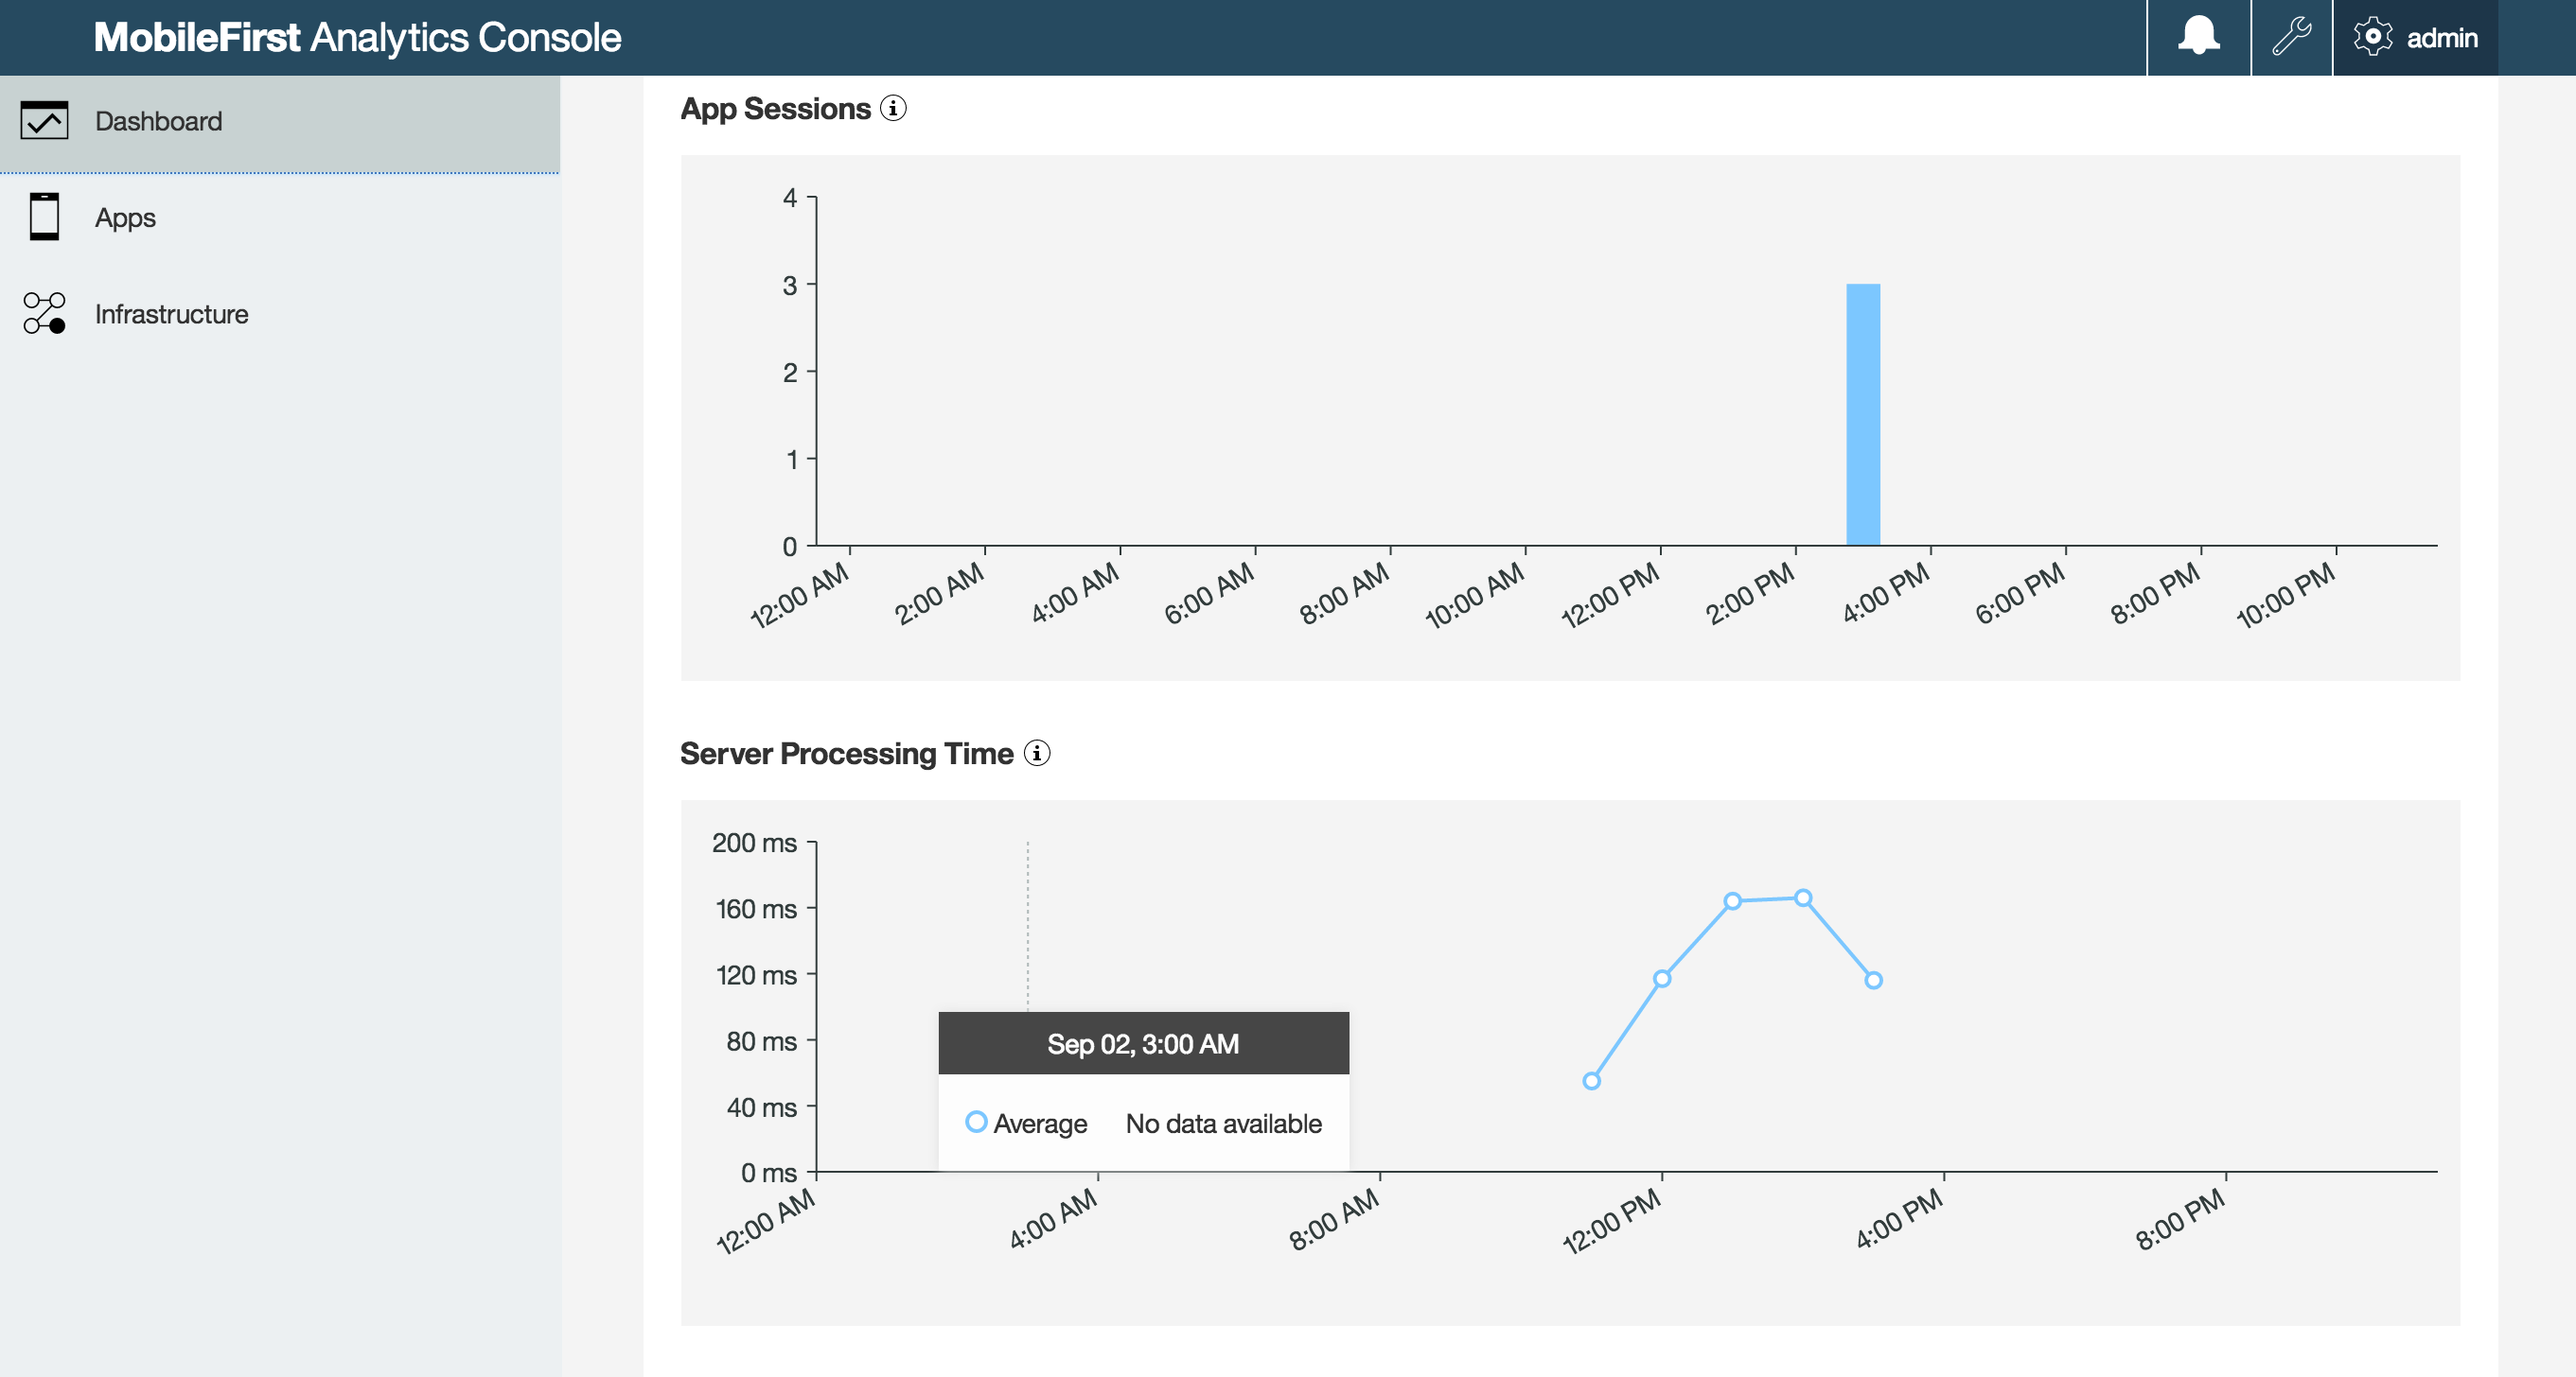
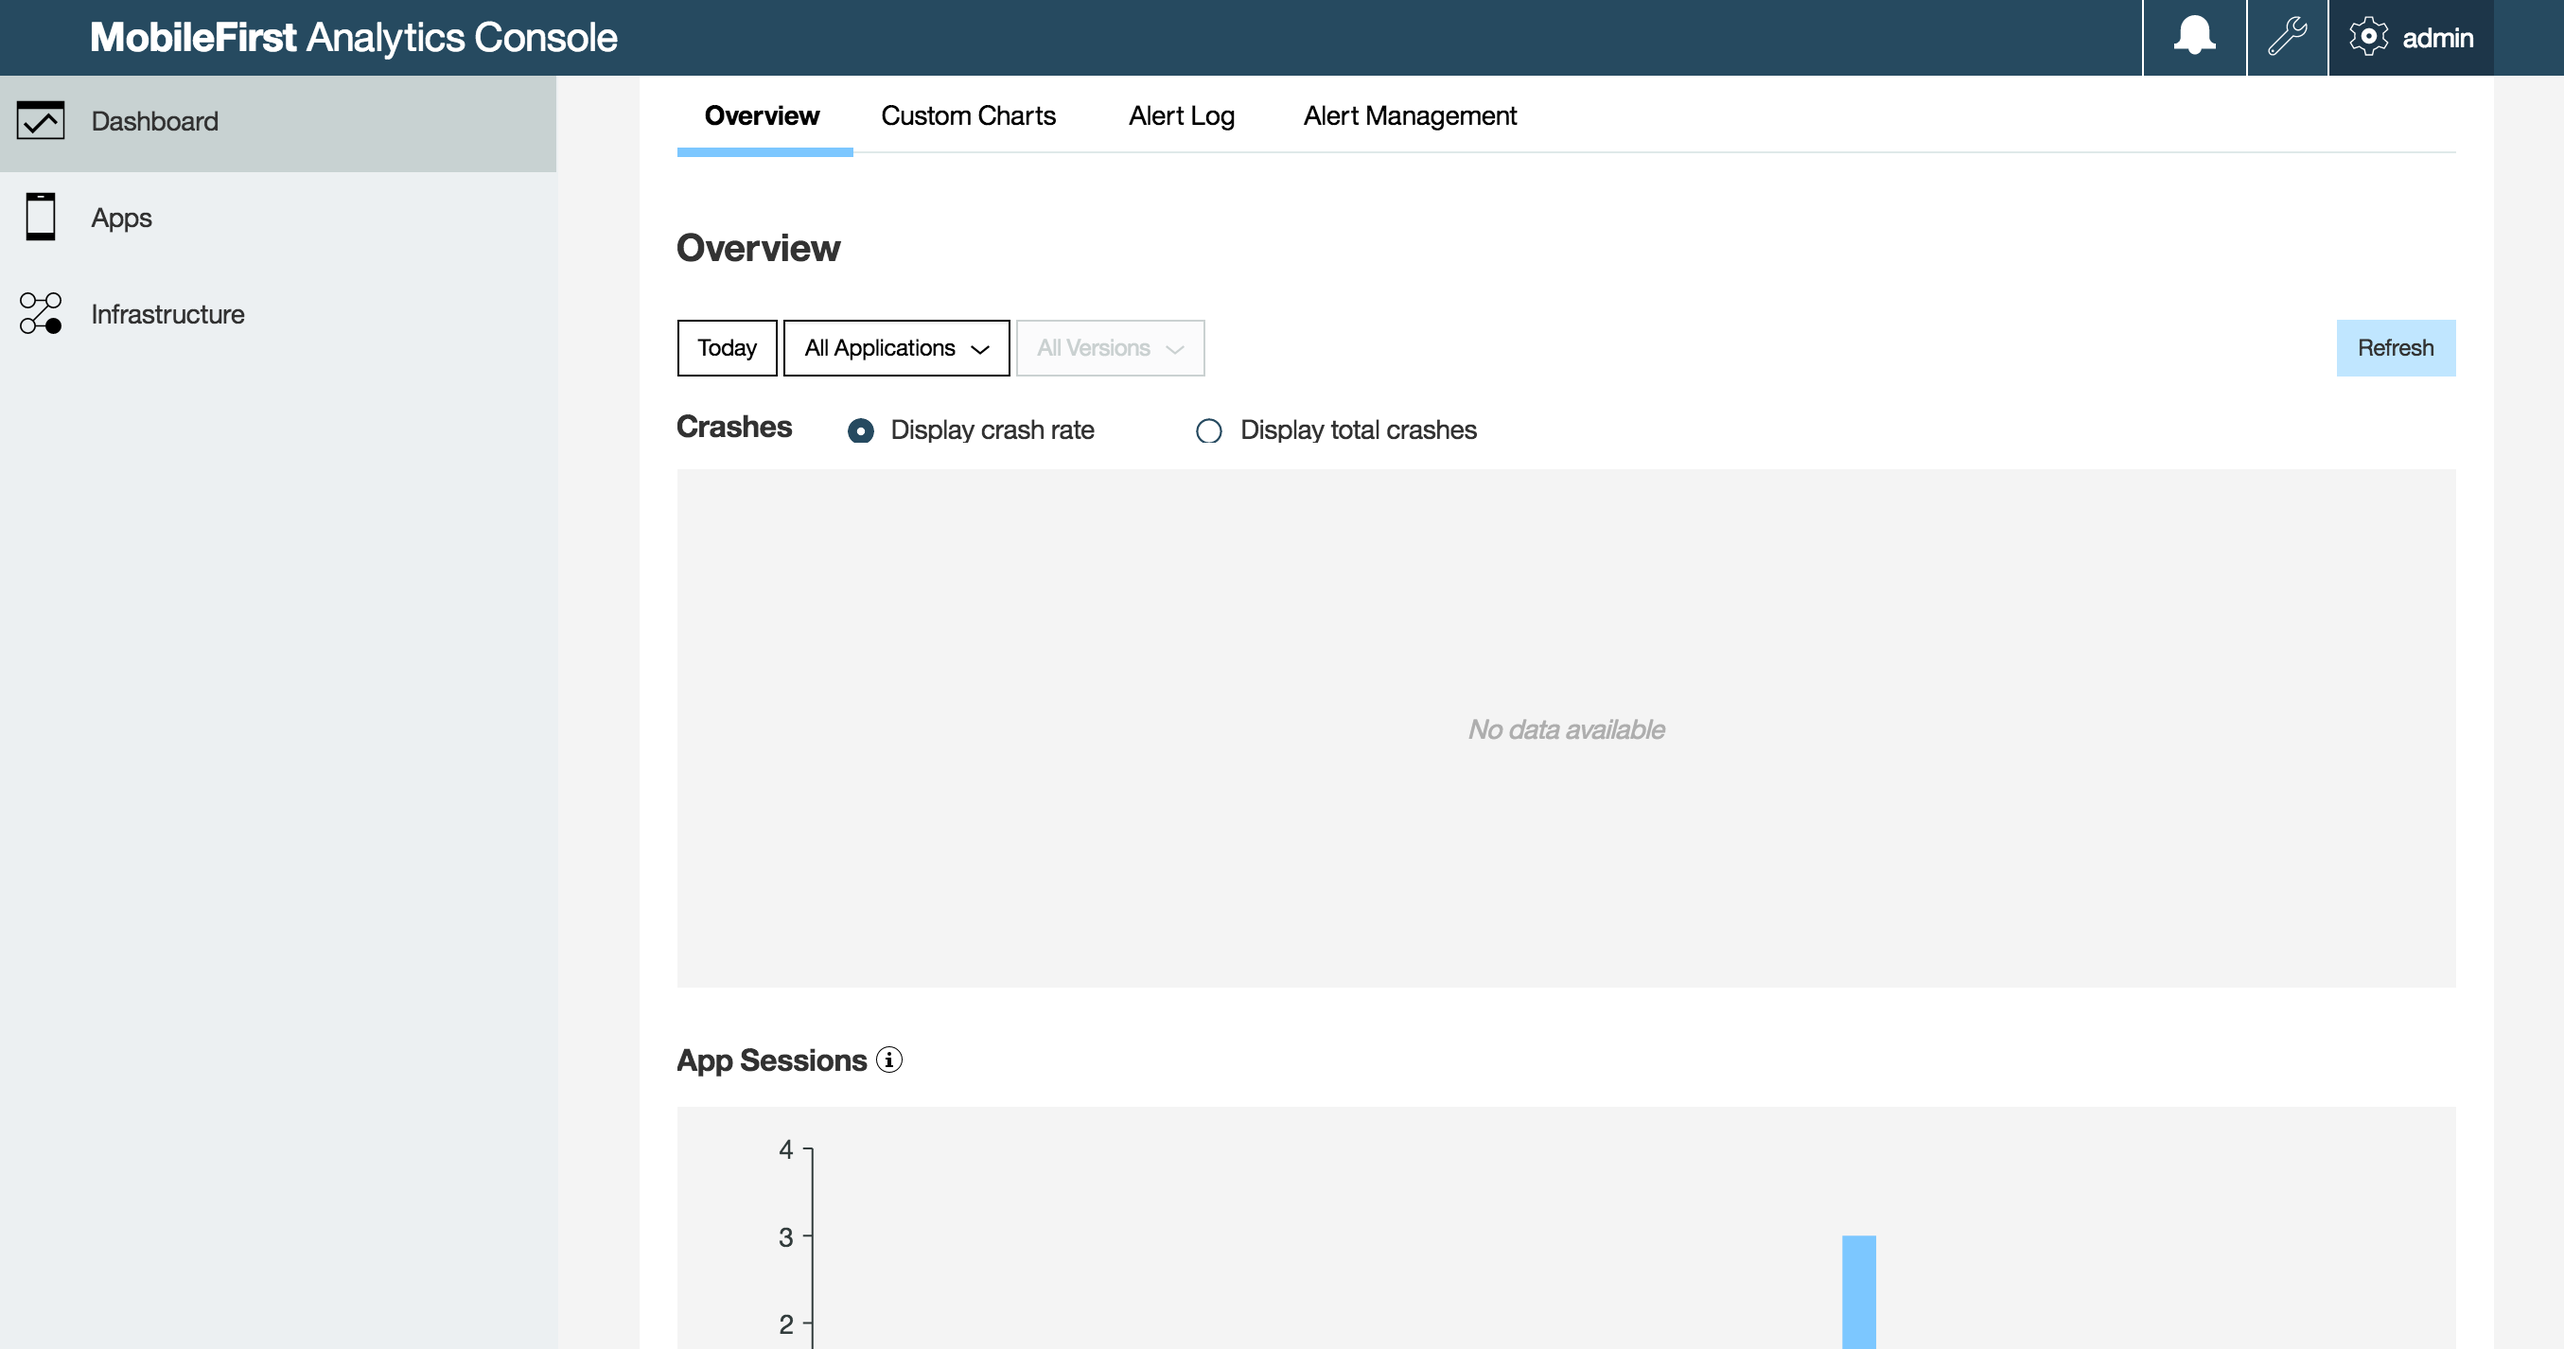
update analytics

diff --git a/Lab/7. analytics.md b/Lab/7. analytics.md
@@ -8,8 +8,7 @@ Once you send analytics to your analytics server, you will see some default info
 Here are some screenshots of information you would see.
 
 ### Dashboard
-App Sessions - How many times a user has gone from the background to the foreground.
-
+Overview, Custom Charts, Alert Log, Alert Management
 ![Scope Mapping](/Lab/img/Dashboard.png)
 
 ### Apps
